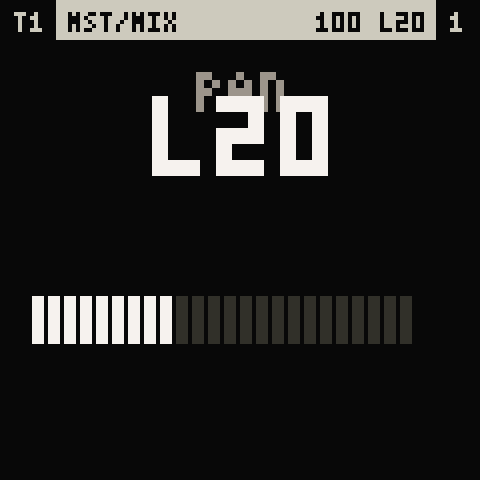
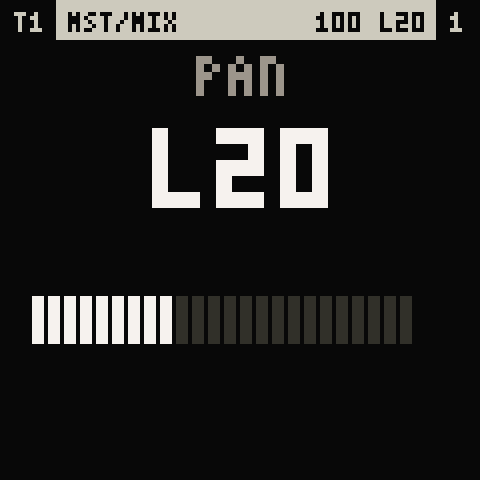
ui: the takeover's label above its value (it was drawn under the big digits)

Changed region(s): [[0.3125, 0.0938, 0.6875, 0.4375], [0.3125, 0.1875, 0.375, 0.2812]]

diff --git a/src/ui/ec_scr_ux.c b/src/ui/ec_scr_ux.c
@@ -188,16 +188,16 @@ static void takeover(const ec_app_t *a)
     int i;
     R(EC_C_BG, 0, 10, W, H - 10);
     if (u->to_label[0])
-        T2(EC_C_L8, u->to_label, W / 2, 18, EC_AL_CENTER);
+        T2(EC_C_L8, u->to_label, W / 2, 14, EC_AL_CENTER);   /* above the value, never under it */
     if (u->to_kind == EC_TO_SAMPLE) {              /* a file name: no extension, on two lines when it must */
         char b[40], *dot;
         snprintf(b, sizeof b, "%s", v);
         dot = strrchr(b, '.');
         if (dot && dot != b)
             *dot = 0;
-        big_text(b, 34, 22);
+        big_text(b, 42, 22);
     } else
-        big_text(v, 34, 22);
+        big_text(v, 42, 22);
     for (i = 0; i < 24; i++) {                     /* the stripes */
         const int on = (float)i < u->to_frac * 24.0f + 0.01f || (i == 0 && u->to_frac > 0);
         R(on ? EC_C_L15 : EC_C_L3, 4 + i * 4 + 4, 74, 3, 12);
